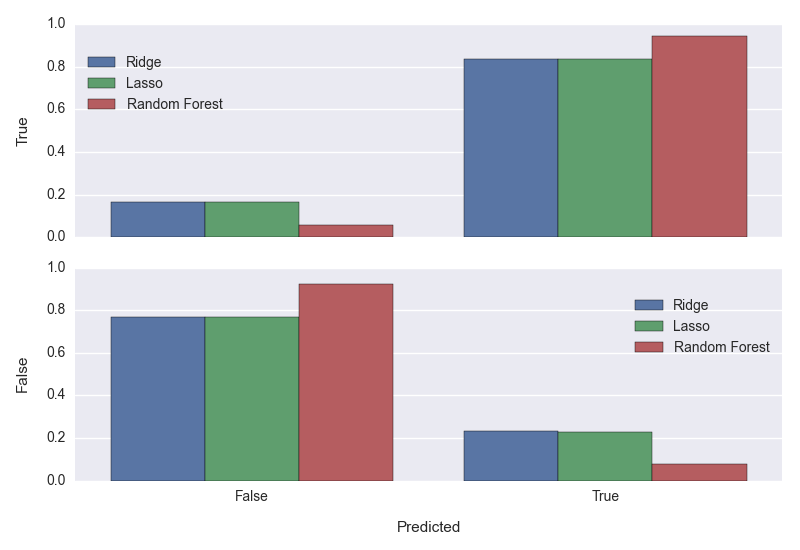
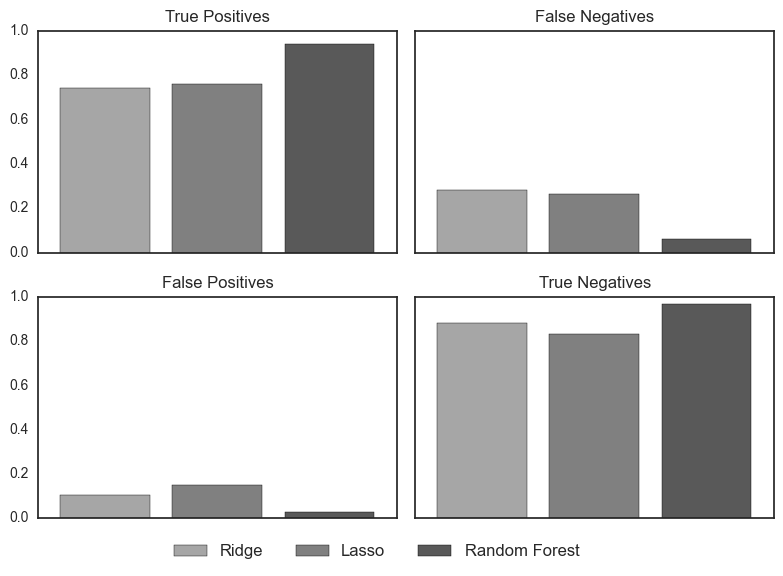
Add new code/example for plotting confusion mats

diff --git a/confusion_plot.py b/confusion_plot.py
@@ -8,6 +8,7 @@ from sklearn.ensemble import RandomForestClassifier
 from sklearn.linear_model import LogisticRegressionCV, RidgeClassifierCV
 from sklearn.metrics import confusion_matrix
 from sklearn.preprocessing import StandardScaler
+sns.set_style('white')
 
 
 def format_confusion_matrix(cmat):
@@ -22,21 +23,20 @@ def format_confusion_matrix(cmat):
     cmat = pd.melt(cmat, id_vars='Observed')
     return cmat 
 
-def confusion_plot(observed, predicted, norm=True, model_names=None, fname=None):
+def confusion_plot(observed, predicted, fname, model_names=None):
     '''
-    Plot the results from multiple confusion matrices for the same observed data.
+    Plot the results from multiple confusion matrices for the same observed data. Counts in each 
+    cell are normalized by the observed within-class totals. 
 
     Arguments:
     ----------
     observed: array of values of dependent variable
     predicted: list of arrays of predicted values from models 
-    norm: should the values in the confusion matrix cells be normalized by the sum of within-class observations. Defaults to True. 
     model_names: list of names given to the models to appear in the legend of the plot. 
     fname: path to write file 
     '''
     cmats = [confusion_matrix(observed, pred) for pred in predicted]
-    if norm:
-        cmats = [cmat / cmat.sum(axis=1).astype(float) for cmat in cmats]
+    cmats = [cmat / cmat.sum(axis=1).astype(float) for cmat in cmats]
     cmats = [format_confusion_matrix(cmat) for cmat in cmats]
 
     if model_names is not None:
@@ -49,43 +49,55 @@ def confusion_plot(observed, predicted, norm=True, model_names=None, fname=None)
             cmat[' '] = idx
 	
     cdata = pd.concat(cmats)
-    f, (ax0, ax1) = plt.subplots(2, sharex=True)
-    sns.barplot(x='Predicted', y='value', hue=' ', data=cdata.query('Observed == "True"'), ax=ax0)
-    ax0.set_ylabel('True', labelpad=12); ax0.set_xlabel('')
-    if norm:
-        ax0.set_ylim([0.0, 1.0])
-    else:
-        ax0.set_ylim([0.0, cdata.query('Observed == "True"')['value'].max() + 1])
-    sns.barplot(x='Predicted', y='value', hue=' ', data=cdata.query('Observed == "False"'), ax=ax1)
-    ax1.set_ylabel('False', labelpad=12); ax1.set_xlabel('Predicted', labelpad=12)
-    if norm:
-        ax1.set_ylim([0.0, 1.0])
-    else:
-        ax1.set_ylim([0.0, cdata.query('Observed == "False"')['value'].max() + 1])
-    f.subplots_adjust(hspace=0.02)
+    index = np.arange(len(predicted))
+    width = 0.8
+    cs = np.linspace(0.35, 0.65, num=len(predicted))
+    cs = list(reversed([str(x) for x in cs]))
+    f, ((ax1, ax2), (ax3, ax4)) = plt.subplots(2, 2, sharex=True, sharey=True, subplot_kw={'ylim' : [0, 1], 'xlim' : [-0.6, len(predicted) - 0.4]})
+    
+    tp = cdata.query('Observed == "True" & Predicted == "True"')['value']
+    ax1.bar(index, tp.values, align='center', width=width, color=cs)
+    ax1.set_xticks([])
+    ax1.set_title('True Positives', y=1.01)
+    ax1.set_xlabel(''); ax1.set_ylabel('')
+    
+    fn = cdata.query('Observed == "True" & Predicted == "False"')['value']
+    ax2.bar(index, fn.values, align='center', width=width, color=cs)
+    ax2.set_xticks([])
+    ax2.set_title('False Negatives', y=1.01)
+    ax2.set_xlabel(''); ax2.set_ylabel('')
+    
+    fp = cdata.query('Observed == "False" & Predicted == "True"')['value']
+    ax3.bar(index, fp.values, align='center', width=width, color=cs)
+    ax3.set_xticks([])
+    ax3.set_title('False Positives', y=1.01)
+    ax3.set_xlabel(''); ax3.set_ylabel('')
+    
+    tn = cdata.query('Observed == "False" & Predicted == "False"')['value']
+    b1, b2, b3 = ax4.bar(index, tn.values, align='center', width=width, color=cs)
+    ax4.set_xticks([])
+    ax4.set_title('True Negatives', y=1.01)
+    ax4.set_xlabel(''); ax4.set_ylabel('')
+   
+    lgd = ax4.legend((b1, b2, b3), model_names, ncol=len(model_names), fontsize=12, bbox_to_anchor=(0.5, -0.05), fancybox=True)
     plt.tight_layout() 
-
-    if fname is not None: 
-        plt.savefig(fname)
-        plt.close() 
-    else: 
-        plt.show() 
-    return 
+    plt.savefig(fname, format='png', bbox_extra_artists=(lgd,), bbox_inches='tight')
+    plt.close() 
 
 
 if __name__ == "__main__":
 
     # generate some fake data, split, and scale 
-    X, y = make_classification(n_samples=10000, n_informative=5, n_redundant=6, random_state=4)
+    X, y = make_classification(n_samples=1000, n_informative=5, n_redundant=6, random_state=4)
     X_train, X_test, y_train, y_test = train_test_split(X, y, test_size=0.2, random_state=4)
     scaler = StandardScaler().fit(X_train)
     X_train_standard = scaler.transform(X_train)
     X_test_standard = scaler.transform(X_test)
     
     # specify classifiers
-    ridge = RidgeClassifierCV(alphas=np.logspace(-3, 1))
-    lasso = LogisticRegressionCV(Cs=np.logspace(-3, 1))
-    forest = RandomForestClassifier(n_estimators=5000, n_jobs=-1) 
+    ridge = RidgeClassifierCV(alphas=np.logspace(-3, 1, 20))
+    lasso = LogisticRegressionCV(Cs=np.logspace(-3, 1, num=20))
+    forest = RandomForestClassifier(n_estimators=100, n_jobs=-1) 
 
     # train the classifiers 
     ridge.fit(X_train_standard, y_train)
@@ -105,4 +117,4 @@ if __name__ == "__main__":
     # build a plot to compare results 
     preds = [ridge_preds, lasso_preds, forest_preds]
     names = ['Ridge', 'Lasso', 'Random Forest']
-    confusion_plot(y_test, preds, norm=True, model_names=names, fname='images/confusion_plot.png')
+    confusion_plot(y_test, preds, model_names=names, fname='images/confusion_plot.png') 
